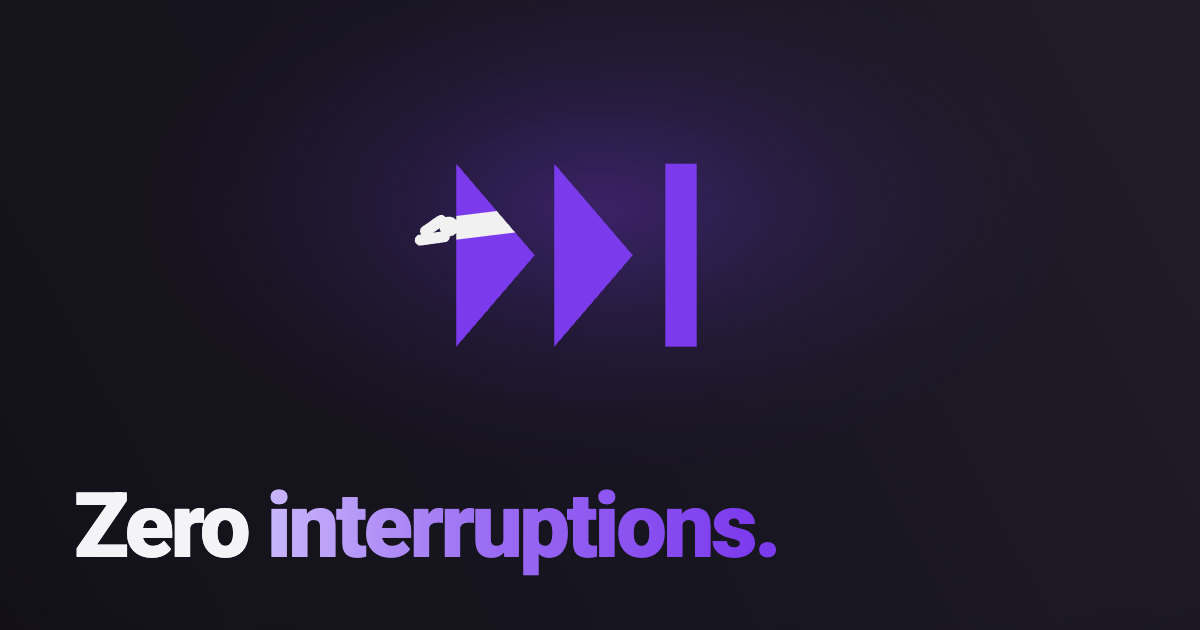
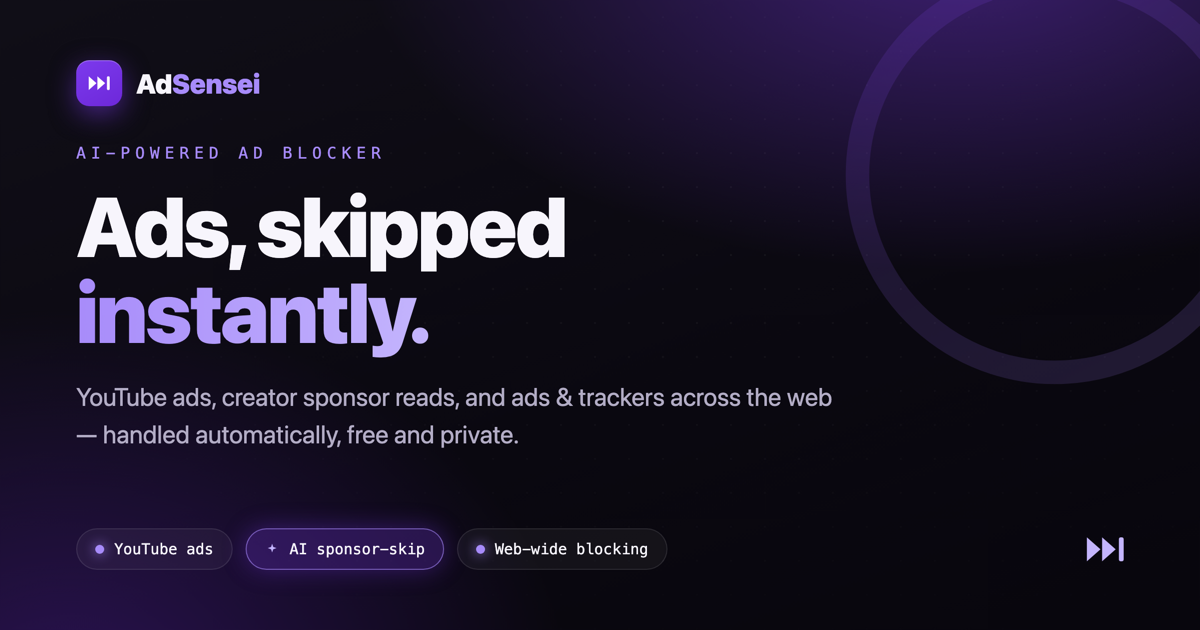
feat(landing): adopt the CWS-tile design system + faithful popup mock
Restyles the landing page to the store tiles' language: deep-purple gradient
canvas with dot grid, gradient brand tile lockup, 900-weight headlines with
gradient spans, glowing chips, icon-tile cards, the sponsor-timeline graphic,
and enso accents. The hero popup mock is now a pixel-faithful still of the
real popup's "This site" view (entrypoints/popup structure + dark-theme
values), adds an "And more" features section, and og.png is rebuilt to match
(source in docs/cws-screenshots/og.html).

diff --git a/landing/index.html b/landing/index.html
@@ -199,7 +199,6 @@
         letter-spacing: 0.28em; color: var(--accent-bright); margin: 0 0 16px;
         font-family: var(--mono);
       }
-      .eyebrow .n { color: var(--accent-soft); }
       h2 {
         font-size: clamp(30px, 4.5vw, 42px); font-weight: 900;
         letter-spacing: -0.02em; line-height: 1.06; margin: 0 0 14px;
@@ -354,41 +353,89 @@
       nav .cta-sm:hover { filter: brightness(1.15); transform: translateY(-1px); }
       .chrome-ico { width: 17px; height: 17px; }
 
-      /* popup mockup (the actual extension UI) */
+      /* popup mockup — a faithful still of the real popup's "This site" view,
+         using the extension's own dark-theme values (popup.css) */
       .hero-mock {
-        margin: 44px auto 0; width: min(94vw, 380px);
-        border-radius: 18px; overflow: hidden;
-        background: var(--panel-solid); border: 1px solid var(--hair);
+        margin: 44px auto 0; width: min(94vw, 344px);
+        border-radius: 18px; overflow: hidden; text-align: left;
+        background: #111113; border: 1px solid var(--hair);
         box-shadow: 0 30px 80px rgba(0, 0, 0, 0.5),
           0 0 0 1px rgba(124, 58, 237, 0.12);
-        text-align: left;
+        font-size: 14px; line-height: 1.4;
+        --pm-panel: #191a1d; --pm-border: rgba(255, 255, 255, 0.09);
+        --pm-text: #f1f1f3; --pm-text2: #9a9ba6; --pm-text3: #6a6b76;
+        --pm-accent: #8b5cf6; --pm-glow: rgba(139, 92, 246, 0.45);
       }
       .mock-head {
         display: flex; align-items: center; justify-content: space-between;
-        padding: 15px 16px; border-bottom: 1px solid var(--hair-2);
+        padding: 12px 16px 10px;
       }
-      .mock-head .lockup { gap: 10px; }
-      .mock-head .lockup .mark { width: 26px; height: 26px; border-radius: 8px; }
-      .mock-head .lockup .wm { font-size: 14px; }
-      .mock-brand { display: flex; flex-direction: column; line-height: 1.25; text-align: left; }
-      .mock-tag { font-size: 11px; color: var(--text-3); }
-      .mock-tgl { width: 34px; height: 20px; border-radius: 999px; background: var(--accent); position: relative; }
+      .mock-brand-row { display: flex; align-items: center; gap: 11px; }
+      .mock-glyph { width: 22px; height: 16px; fill: var(--accent); flex: none; }
+      .mock-brand { display: flex; flex-direction: column; line-height: 1.25; }
+      .mock-wm { font-weight: 900; font-size: 14px; letter-spacing: -0.01em; color: var(--pm-text); }
+      .mock-wm span { color: var(--accent-bright); }
+      .mock-status { font-size: 11px; color: var(--pm-text3); }
+      .mock-actions { display: flex; align-items: center; gap: 12px; color: var(--pm-text3); }
+      .mock-tgl { width: 34px; height: 20px; border-radius: 999px; background: var(--accent); position: relative; flex: none; }
       .mock-tgl::after { content: ""; position: absolute; top: 2px; right: 2px; width: 16px; height: 16px; border-radius: 50%; background: #fff; }
-      .mock-tgl.off { background: rgba(255,255,255,0.18); }
-      .mock-tgl.off::after { right: auto; left: 2px; }
-      .mock-row {
-        display: flex; align-items: center; justify-content: space-between;
-        padding: 13px 16px; font-size: 14px; color: var(--text);
+      .mock-seg {
+        display: flex; gap: 2px; margin: 0 12px 8px; padding: 3px;
+        background: var(--pm-panel); border: 1px solid var(--pm-border); border-radius: 11px;
       }
-      .mock-row + .mock-row { border-top: 1px solid var(--hair-2); }
-      .mock-sub { font-size: 11px; color: var(--text-3); text-transform: uppercase; letter-spacing: 0.12em; padding: 16px 16px 8px; font-family: var(--mono); }
-      .mock-stats { padding: 4px 16px 18px; }
-      .mock-stats table { width: 100%; border-collapse: collapse; font-size: 13px; }
-      .mock-stats th { text-align: right; font-weight: 500; color: var(--text-3); font-size: 11px; padding-bottom: 6px; }
-      .mock-stats th:first-child { text-align: left; }
-      .mock-stats td { padding: 5px 0; color: var(--text-2); }
-      .mock-stats td:first-child { color: var(--text); }
-      .mock-stats td:not(:first-child) { text-align: right; font-family: var(--mono); color: var(--accent-bright); }
+      .mock-seg span {
+        flex: 1; text-align: center; padding: 6px; border-radius: 8px;
+        font-size: 12.5px; font-weight: 500; color: var(--pm-text3);
+      }
+      .mock-seg .on { background: rgba(124, 58, 237, 0.22); color: var(--pm-text); }
+      .mock-pad { padding: 4px 12px 14px; }
+      .mock-sitehero {
+        display: flex; align-items: center; justify-content: space-between; gap: 12px;
+        padding: 14px 16px; border: 1px solid var(--pm-border); border-radius: 14px;
+        background: var(--pm-panel);
+      }
+      .mock-siteinfo { display: flex; flex-direction: column; gap: 3px; min-width: 0; }
+      .mock-sitestatus {
+        font-size: 10.5px; font-weight: 700; letter-spacing: 0.09em; text-transform: uppercase;
+        color: var(--pm-accent); display: flex; align-items: center; gap: 6px;
+      }
+      .mock-sitestatus::before {
+        content: ""; width: 7px; height: 7px; border-radius: 50%;
+        background: var(--pm-accent); box-shadow: 0 0 8px var(--pm-glow);
+      }
+      .mock-host { font-size: 17px; font-weight: 600; letter-spacing: -0.01em; color: var(--pm-text); }
+      .mock-pageblocked { font-size: 11.5px; color: var(--pm-text2); font-variant-numeric: tabular-nums; }
+      .mock-power {
+        display: flex; align-items: center; justify-content: center; flex: none;
+        width: 46px; height: 46px; border-radius: 50%;
+        border: 2px solid var(--pm-accent); color: var(--pm-accent);
+        background: rgba(124, 58, 237, 0.1); box-shadow: 0 0 14px var(--pm-glow);
+      }
+      .mock-power svg { width: 21px; height: 21px; }
+      .mock-detail {
+        display: flex; align-items: center; gap: 8px; margin-top: 8px;
+        padding: 12px 14px; border: 1px solid var(--pm-border); border-radius: 14px;
+        background: var(--pm-panel); font-size: 12.5px; color: var(--pm-text);
+      }
+      .mock-chev { color: var(--pm-text3); font-size: 11px; }
+      .mock-detail .re { margin-left: auto; color: var(--pm-text3); }
+      .mock-stat-eyebrow {
+        margin: 14px 2px 6px; font-size: 9.5px; font-weight: 600;
+        letter-spacing: 0.09em; text-transform: uppercase; color: var(--pm-text3);
+      }
+      .mock-statrow { display: grid; grid-template-columns: repeat(4, 1fr); gap: 6px; }
+      .mock-stat {
+        display: flex; flex-direction: column; align-items: center; gap: 2px;
+        padding: 9px 3px 7px; border: 1px solid var(--pm-border); border-radius: 12px;
+        background: var(--pm-panel); text-align: center;
+      }
+      .mock-stat b { font-size: 15.5px; font-weight: 700; color: var(--pm-text); font-variant-numeric: tabular-nums; letter-spacing: -0.02em; }
+      .mock-stat span { font-size: 10px; color: var(--pm-text2); }
+      .mock-stat i { font-style: normal; font-size: 9.5px; color: var(--pm-text3); }
+      .mock-foot {
+        display: flex; justify-content: center; gap: 8px; padding: 10px;
+        border-top: 1px solid var(--pm-border); font-size: 12px; color: var(--pm-text3);
+      }
 
       /* install steps */
       .steps { display: grid; grid-template-columns: repeat(3, 1fr); gap: 20px; counter-reset: step; }
@@ -484,32 +531,47 @@
         </div>
         <div class="kicker"><b>Free</b> · Private · No account · Runs in your browser</div>
 
-        <!-- the actual extension popup, so visitors see what they get -->
-        <div class="hero-mock" role="img" aria-label="Ad Sensei popup: all engines on, thousands of ads skipped">
+        <!-- the actual extension popup ("This site" view), so visitors see what they get -->
+        <div class="hero-mock" role="img" aria-label="The Ad Sensei popup on youtube.com: protection active, 23 ads blocked on this page, thousands blocked all-time">
           <div class="mock-head">
-            <div class="lockup">
-              <span class="mark"><svg viewBox="0 0 92 60" width="13" height="8.5" fill="#fff" aria-hidden="true"><polygon points="0,0 34,30 0,60" /><polygon points="38,0 72,30 38,60" /><rect x="80" y="0" width="12" height="60" rx="5" /></svg></span>
+            <div class="mock-brand-row">
+              <svg class="mock-glyph" viewBox="0 0 24 17" aria-hidden="true"><path d="M0 1.5l6 7-6 7v-14zm7.5 0l6 7-6 7v-14zm8.5 0h2.4v14H16v-14z" /></svg>
               <div class="mock-brand">
-                <span class="wm">Ad<b>Sensei</b></span>
-                <span class="mock-tag">Zero interruptions.</span>
+                <span class="mock-wm"><span>AD</span> SENSEI</span>
+                <span class="mock-status">Protection active</span>
               </div>
             </div>
-            <span class="mock-tgl" aria-hidden="true"></span>
+            <div class="mock-actions">
+              <span aria-hidden="true">↻</span>
+              <span class="mock-tgl" aria-hidden="true"></span>
+            </div>
           </div>
-          <div class="mock-row"><span>Skip YouTube ads</span><span class="mock-tgl" aria-hidden="true"></span></div>
-          <div class="mock-row"><span>Skip sponsor segments</span><span class="mock-tgl" aria-hidden="true"></span></div>
-          <div class="mock-row"><span>Block all ads</span><span class="mock-tgl" aria-hidden="true"></span></div>
-          <div class="mock-sub">Skipped</div>
-          <div class="mock-stats">
-            <table>
-              <thead><tr><th></th><th>Session</th><th>All time</th></tr></thead>
-              <tbody>
-                <tr><td>YouTube ads</td><td>7</td><td>1,284</td></tr>
-                <tr><td>Sponsor segments</td><td>3</td><td>412</td></tr>
-                <tr><td>Web ads blocked</td><td>166</td><td>18,930</td></tr>
-              </tbody>
-            </table>
+          <div class="mock-seg"><span class="on">This site</span><span>Controls</span></div>
+          <div class="mock-pad">
+            <div class="mock-sitehero">
+              <div class="mock-siteinfo">
+                <span class="mock-sitestatus">Blocking active</span>
+                <span class="mock-host">youtube.com</span>
+                <span class="mock-pageblocked">23 blocked on this page</span>
+              </div>
+              <span class="mock-power" aria-hidden="true">
+                <svg viewBox="0 0 24 24"><path d="M12 3v9" fill="none" stroke="currentColor" stroke-width="2.2" stroke-linecap="round" /><path d="M7.4 6.4a7 7 0 1 0 9.2 0" fill="none" stroke="currentColor" stroke-width="2.2" stroke-linecap="round" /></svg>
+              </span>
+            </div>
+            <div class="mock-detail">
+              <span class="mock-chev" aria-hidden="true">▸</span>
+              <span>2 sponsor segments skipped</span>
+              <span class="re" aria-hidden="true">↻</span>
+            </div>
+            <div class="mock-stat-eyebrow">Blocked everywhere</div>
+            <div class="mock-statrow">
+              <div class="mock-stat"><b>1,284</b><span>YouTube</span><i>7 today</i></div>
+              <div class="mock-stat"><b>18,930</b><span>Web ads</span><i>166 today</i></div>
+              <div class="mock-stat"><b>4,102</b><span>Trackers</span><i>38 today</i></div>
+              <div class="mock-stat"><b>912</b><span>Cookies</span><i>12 today</i></div>
+            </div>
           </div>
+          <div class="mock-foot">↗ Share <span>·</span> ☕ Buy me a coffee</div>
         </div>
       </div>
     </header>
@@ -517,7 +579,7 @@
     <!-- three engines -->
     <section id="how">
       <div class="wrap">
-        <p class="eyebrow"><span class="n">01</span> &nbsp;/&nbsp; What it does</p>
+        <p class="eyebrow">What it does</p>
         <h2>One ad blocker, <span class="grad">three layers</span></h2>
         <p class="lede">
           Start with web-wide ad and tracker blocking — then add the ads filter
@@ -562,7 +624,7 @@
     <!-- AI layer -->
     <section id="ai">
       <div class="wrap">
-        <p class="eyebrow"><span class="n">02</span> &nbsp;/&nbsp; The moat</p>
+        <p class="eyebrow">The moat</p>
         <h2>AI where filter lists <span class="grad">can't reach</span></h2>
         <p class="lede">
           Crowdsourced ad-block databases can't see a creator's sponsor read or
@@ -605,7 +667,7 @@
     <!-- privacy band -->
     <section id="privacy">
       <div class="wrap">
-        <p class="eyebrow"><span class="n">03</span> &nbsp;/&nbsp; By design</p>
+        <p class="eyebrow">By design</p>
         <h2>Powerful. Private. <span class="grad">Free.</span></h2>
         <p class="lede">No backend, no accounts, nothing hosted. Everything runs in your browser — your data never passes through anyone's server.</p>
         <div class="band">
@@ -619,7 +681,7 @@
     <!-- additional features -->
     <section id="more">
       <div class="wrap">
-        <p class="eyebrow"><span class="n">04</span> &nbsp;/&nbsp; And more</p>
+        <p class="eyebrow">And more</p>
         <h2>The details are handled</h2>
         <p class="lede">The small stuff that makes an ad blocker feel invisible — built in, not bolted on.</p>
         <div class="more-grid">
@@ -654,7 +716,7 @@
     <!-- install steps -->
     <section id="install">
       <div class="wrap">
-        <p class="eyebrow"><span class="n">05</span> &nbsp;/&nbsp; Get started</p>
+        <p class="eyebrow">Get started</p>
         <h2>Three steps. One minute.</h2>
         <p class="lede">No account, no sign-in. Download the build and load it into Chrome — that's the whole setup.</p>
         <div class="steps">

diff --git a/docs/cws-screenshots/og.html b/docs/cws-screenshots/og.html
@@ -1,0 +1,65 @@
+<!doctype html><html lang="en"><head><meta charset="utf-8">
+<link rel="preconnect" href="https://fonts.googleapis.com">
+<link rel="preconnect" href="https://fonts.gstatic.com" crossorigin>
+<link href="https://fonts.googleapis.com/css2?family=Roboto:wght@400;500;700;900&family=Roboto+Mono:wght@400;500&display=swap" rel="stylesheet">
+<style>
+:root{
+  --purple:#7c3aed; --purple-2:#a78bfa; --purple-3:#6d28d9;
+  --ink:#f7f5fc; --dim:#b3adc6; --faint:#7d7796;
+  --card:rgba(255,255,255,.045); --line:rgba(255,255,255,.10);
+  --sans:'Roboto',system-ui,-apple-system,'Helvetica Neue',Arial,sans-serif;
+  --mono:'Roboto Mono',ui-monospace,monospace;
+}
+*{margin:0;padding:0;box-sizing:border-box}
+html,body{width:1200px;height:630px;overflow:hidden}
+body{
+  font-family:var(--sans); color:var(--ink);
+  background:
+    radial-gradient(1000px 560px at 80% -10%, rgba(124,58,237,.44), transparent 60%),
+    radial-gradient(800px 620px at 6% 110%, rgba(109,40,217,.32), transparent 62%),
+    linear-gradient(160deg,#100e17 0%,#0a0810 60%,#08060d 100%);
+  position:relative;
+}
+body::before{
+  content:""; position:absolute; inset:0;
+  background-image:radial-gradient(rgba(255,255,255,.05) 1px, transparent 1px);
+  background-size:34px 34px; mask:radial-gradient(900px 500px at 60% 40%,#000,transparent 85%);
+  pointer-events:none;
+}
+.wrap{position:relative; width:100%; height:100%; padding:60px 76px; display:flex; flex-direction:column}
+.brand{display:flex; align-items:center; gap:14px}
+.brand .mark{width:46px;height:46px;border-radius:13px;background:linear-gradient(150deg,var(--purple),var(--purple-3));
+  display:grid;place-items:center;box-shadow:0 8px 26px rgba(124,58,237,.5), inset 0 1px 0 rgba(255,255,255,.25)}
+.brand .name{font-weight:900;font-size:27px;letter-spacing:-.01em}
+.brand .name b{color:var(--purple-2)}
+.grad{background:linear-gradient(92deg,var(--purple-2),#c4b5fd); -webkit-background-clip:text; background-clip:text; color:transparent}
+.pill{display:inline-flex;align-items:center;gap:10px;padding:11px 18px;border:1px solid var(--line);
+  border-radius:999px;background:var(--card);font-family:var(--mono);font-size:15px;color:var(--ink)}
+.pill .dot{width:9px;height:9px;border-radius:50%;background:var(--purple-2);box-shadow:0 0 12px var(--purple-2)}
+.footer{margin-top:auto; display:flex; align-items:center; justify-content:space-between}
+</style></head><body><div class="wrap">
+  <div style="position:absolute;right:-90px;top:-60px;opacity:.15">
+    <svg width="470" height="470" viewBox="0 0 100 100"><circle cx="50" cy="50" r="42" fill="none" stroke="url(#g)" stroke-width="5" stroke-linecap="round" pathLength="100" stroke-dasharray="86 100" transform="rotate(18 50 50)"/>
+    <defs><linearGradient id="g" x1="0" y1="0" x2="1" y2="1"><stop offset="0" stop-color="#7c3aed"/><stop offset="1" stop-color="#a78bfa"/></linearGradient></defs></svg>
+  </div>
+  <div class="brand">
+    <div class="mark"><svg width="21" height="14" viewBox="0 0 92 60" fill="#fff"><polygon points="0,0 34,30 0,60"/><polygon points="38,0 72,30 38,60"/><rect x="80" y="0" width="12" height="60" rx="5"/></svg></div>
+    <div class="name">Ad<b>Sensei</b></div>
+  </div>
+  <div style="margin:auto 0; max-width:940px">
+    <div style="font-family:var(--mono);font-size:16px;letter-spacing:.32em;text-transform:uppercase;color:var(--purple-2);font-weight:500;margin-bottom:20px">AI-powered ad blocker</div>
+    <h1 style="font-weight:900;letter-spacing:-.022em;line-height:1.02;font-size:84px">Ads, skipped<br><span class="grad">instantly.</span></h1>
+    <p style="color:var(--dim);font-size:25px;margin-top:24px;max-width:780px;line-height:1.5">
+      YouTube ads, creator sponsor reads, and ads &amp; trackers across the web —
+      handled automatically, free and private.</p>
+  </div>
+  <div class="footer">
+    <div style="display:flex;gap:13px">
+      <span class="pill"><span class="dot"></span>YouTube ads</span>
+      <span class="pill" style="background:rgba(124,58,237,.24);border-color:rgba(167,139,250,.6);box-shadow:0 0 24px rgba(124,58,237,.35)">
+        <svg width="15" height="15" viewBox="0 0 24 24"><path d="M12 3l1.7 5.1L19 10l-5.3 1.9L12 17l-1.7-5.1L5 10l5.3-1.9L12 3z" fill="#c4b5fd"/></svg>AI sponsor-skip</span>
+      <span class="pill"><span class="dot"></span>Web-wide blocking</span>
+    </div>
+    <svg width="37" height="24" viewBox="0 0 92 60" fill="#c4b5fd"><polygon points="0,0 34,30 0,60"/><polygon points="38,0 72,30 38,60"/><rect x="80" y="0" width="12" height="60" rx="5"/></svg>
+  </div>
+</div></body></html>
